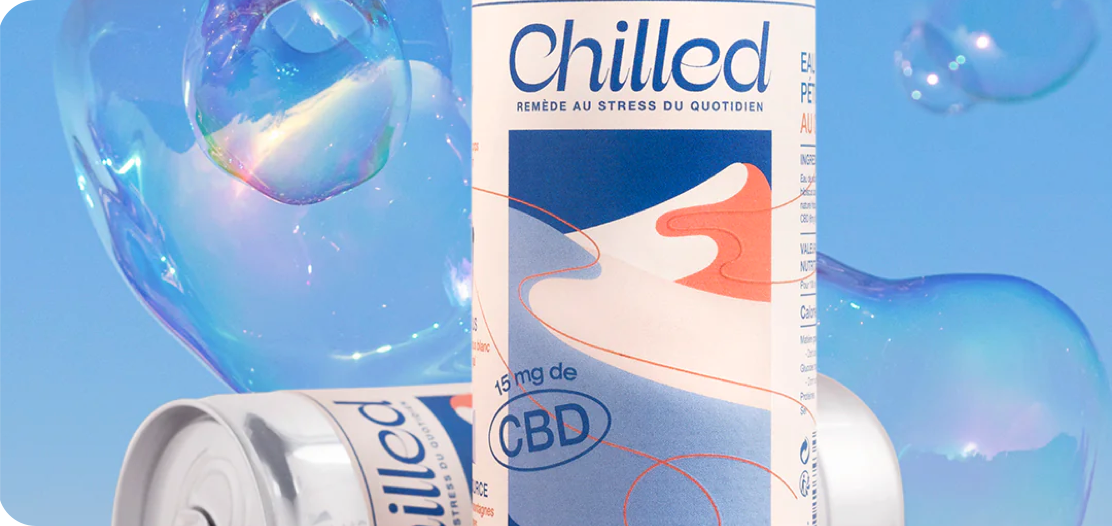
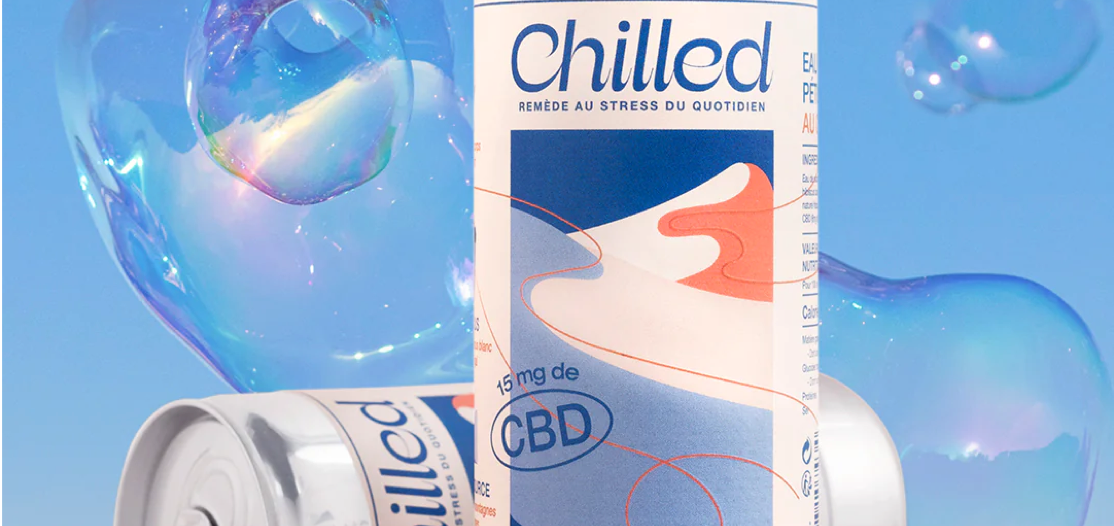
friends section photos adjusted

diff --git a/src/index.html b/src/index.html
@@ -211,6 +211,7 @@
       </button>
     </div>
     <div class="recipes re-back" id="recipes">
+      <div class="re-color"></div>
       <div class="container">
         <div class="row">
           <div class="col-12">
@@ -236,7 +237,11 @@
       <div class="container-fluid f-tensai">
         <div class="row">
           <div class="col-12 col-md-5 order-md-1 f-product">
-            <img src="img/tensai tea.webp" alt="tensai tea product" />
+            <img
+              src="img/tensai tea.webp"
+              alt="tensai tea product"
+              class="f-portrait"
+            />
           </div>
           <div class="col-12 col-md-5 f-alter f-alter-tea">
             <a
@@ -250,8 +255,12 @@
       </div>
       <div class="container-fluid f-chilled">
         <div class="row">
-          <div class="col-12 col-md-5 offset-md-2 f-product">
-            <img src="img/chilled.webp" alt="chilled product" />
+          <div class="col-12 col-md-5 offset-md-2 f-product f-product-chill">
+            <img
+              src="img/chilled.webp"
+              alt="chilled product"
+              class="f-portrait-chill"
+            />
           </div>
           <div class="col-12 col-md-5 f-alter f-alter-chill">
             <a
@@ -266,7 +275,11 @@
       <div class="container-fluid f-dame">
         <div class="row">
           <div class="col-12 col-md-5 order-md-1 f-product">
-            <img src="img/dame gingembre.webp" alt="dame gimgembre product" />
+            <img
+              src="img/dame gingembre.webp"
+              alt="dame gimgembre product"
+              class="f-portrait"
+            />
           </div>
           <div class="col-12 col-md-5 f-alter f-alter-dame">
             <a

diff --git a/src/scss/modules/_friends.scss b/src/scss/modules/_friends.scss
@@ -46,6 +46,19 @@
   align-items: center;
 }
 
+.f-product {
+  padding-right: 0;
+}
+
+.f-portrait {
+  border-top-right-radius: 19px;
+  border-bottom-right-radius: 19px;
+}
+
+.f-portrait-chill {
+  border-top-left-radius: 19px;
+  border-bottom-left-radius: 19px;
+}
 /* Media queries */
 
 @media (max-width: 996px) {
@@ -62,5 +75,13 @@
   .f-alter-dame {
     justify-content: center;
     padding: 19px 0;
+  }
+  .f-portrait {
+    border-top-left-radius: 19px;
+    border-bottom-right-radius: 0;
+  }
+  .f-portrait-chill {
+    border-top-right-radius: 19px;
+    border-bottom-left-radius: 0;
   }
 }
